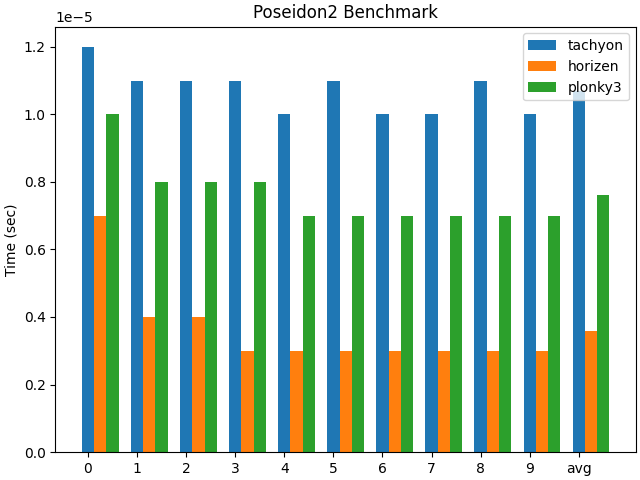
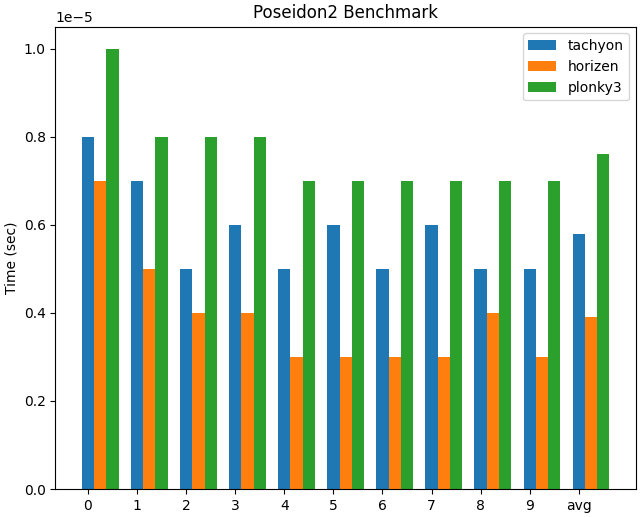
docs(benchmark): update the benchmark result of `Poseidon` and `Poseidon2`

diff --git a/benchmark/poseidon2/README.md b/benchmark/poseidon2/README.md
@@ -7,24 +7,50 @@ CPU Caches:
   L1 Instruction 32 KiB (x16)
   L2 Unified 2048 KiB (x16)
   L3 Unified 36864 KiB (x1)
+
+Run on Apple M3 Pro (12 X 4050 MHz)
+CPU Caches:
+  L1 Data 64 KiB (x12)
+  L1 Instruction 128 KiB (x12)
+  L2 Unified 4096 KiB (x12)
 ```
 
 ```shell
 bazel run -c opt --//:has_openmp --//:has_rtti --//:has_matplotlib //benchmark/poseidon2:poseidon2_benchmark -- -p bn254_fr --vendor horizen --vendor plonky3 --check_results
 ```
 
-| Repetition | Tachyon  | Horizen | Plonky3 |
-| :--------- | -------- | ------- | ------- |
-| 0          | 1.2e-05  | 7e-06   | 1e-05   |
-| 1          | 1.1e-05  | 4e-06   | 8e-06   |
-| 2          | 1.1e-05  | 4e-06   | 8e-06   |
-| 3          | 1.1e-05  | 3e-06   | 8e-06   |
-| 4          | 1e-05    | 3e-06   | 7e-06   |
-| 5          | 1.1e-05  | 3e-06   | 7e-06   |
-| 6          | 1e-05    | 3e-06   | 7e-06   |
-| 7          | 1e-05    | 3e-06   | 7e-06   |
-| 8          | 1.1e-05  | 3e-06   | 7e-06   |
-| 9          | 1e-05    | 3e-06   | 7e-06   |
-| avg        | 1.07e-05 | 3.6e-06 | 7.6e-06 |
+#### On Intel i9-13900K
+
+| Repetition | Tachyon | Horizen     | Plonky3 |
+| :--------- | ------- | ----------- | ------- |
+| 0          | 8e-06   | **7e-06**   | 1e-05   |
+| 1          | 7e-06   | **5e-06**   | 8e-06   |
+| 2          | 5e-06   | **4e-06**   | 8e-06   |
+| 3          | 6e-06   | **4e-06**   | 8e-06   |
+| 4          | 5e-06   | **3e-06**   | 7e-06   |
+| 5          | 6e-06   | **3e-06**   | 7e-06   |
+| 6          | 5e-06   | **3e-06**   | 7e-06   |
+| 7          | 6e-06   | **3e-06**   | 7e-06   |
+| 8          | 5e-06   | **4e-06**   | 7e-06   |
+| 9          | 5e-06   | **3e-06**   | 7e-06   |
+| avg        | 5.8e-06 | **3.9e-06** | 7.6e-06 |
 
 ![image](/benchmark/poseidon2/poseidon2_benchmark_ubuntu_i9.png)
+
+#### On Mac M3 Pro
+
+| Repetition | Tachyon | Horizen     | Plonky3  |
+| :--------- | ------- | ----------- | -------- |
+| 0          | 1.3e-05 | **1.2e-05** | 1.5e-05  |
+| 1          | 1e-05   | **8e-06**   | 1.1e-05  |
+| 2          | 9e-06   | **7e-06**   | 1e-05    |
+| 3          | 9e-06   | **7e-06**   | 1e-05    |
+| 4          | 9e-06   | **7e-06**   | 1e-05    |
+| 5          | 9e-06   | **7e-06**   | 1e-05    |
+| 6          | 9e-06   | **7e-06**   | 1e-05    |
+| 7          | 9e-06   | **7e-06**   | 1e-05    |
+| 8          | 9e-06   | **7e-06**   | 1e-05    |
+| 9          | 9e-06   | **7e-06**   | 1e-05    |
+| avg        | 9.5e-06 | **7.6e-06** | 1.06e-05 |
+
+![image](/benchmark/poseidon2/poseidon2_benchmark_mac_m3.png)

diff --git a/benchmark/poseidon/README.md b/benchmark/poseidon/README.md
@@ -23,34 +23,34 @@ bazel run -c opt --//:has_openmp --//:has_rtti --//:has_matplotlib //benchmark/p
 
 | Repetition | Tachyon      | Arkworks  |
 | :--------: | ------------ | --------- |
-|     0      | **9.9e-05**  | 0.000122  |
-|     1      | **9.9e-05**  | 0.000119  |
-|     2      | **9.9e-05**  | 0.000117  |
-|     3      | **9.9e-05**  | 0.000119  |
-|     4      | **9.9e-05**  | 0.000118  |
-|     5      | **0.000101** | 0.000116  |
-|     6      | **9.8e-05**  | 0.000118  |
-|     7      | **9.9e-05**  | 0.000118  |
-|     8      | **9.9e-05**  | 0.000118  |
-|     9      | **9.9e-05**  | 0.000118  |
-|    avg     | **9.91e-05** | 0.0001183 |
+|     0      | **9.4e-05**  | 0.000123  |
+|     1      | **9.1e-05**  | 0.000119  |
+|     2      | **9.3e-05**  | 0.000117  |
+|     3      | **9.2e-05**  | 0.000117  |
+|     4      | **9.2e-05**  | 0.000117  |
+|     5      | **9.2e-05**  | 0.00012   |
+|     6      | **9.2e-05**  | 0.000118  |
+|     7      | **9.2e-05**  | 0.000118  |
+|     8      | **9.3e-05**  | 0.000117  |
+|     9      | **9.2e-05**  | 0.000116  |
+|    avg     | **9.23e-05** | 0.0001182 |
 
 ![image](/benchmark/poseidon/poseidon_benchmark_ubuntu_i9.png)
 
 ## On Mac M3 Pro
 
-| Repetition | Tachyon       | Arkworks  |
-| :--------: | ------------- | --------- |
-|     0      | **0.000112**  | 0.000131  |
-|     1      | **0.000118**  | 0.000125  |
-|     2      | **0.000111**  | 0.000121  |
-|     3      | **0.000103**  | 0.000121  |
-|     4      | **0.000104**  | 0.00012   |
-|     5      | **0.000103**  | 0.000117  |
-|     6      | **0.000103**  | 0.000118  |
-|     7      | **0.000104**  | 0.000117  |
-|     8      | **0.0001**    | 0.000118  |
-|     9      | **0.000113**  | 0.000118  |
-|    avg     | **0.0001071** | 0.0001206 |
+| Repetition | Tachyon      | Arkworks  |
+| :--------: | ------------ | --------- |
+|     0      | **0.000106** | 0.000128  |
+|     1      | **0.0001**   | 0.000121  |
+|     2      | **9.7e-05**  | 0.00012   |
+|     3      | **9.5e-05**  | 0.000118  |
+|     4      | **9.8e-05**  | 0.00012   |
+|     5      | **9.8e-05**  | 0.000117  |
+|     6      | **9.9e-05**  | 0.000118  |
+|     7      | **9.5e-05**  | 0.000116  |
+|     8      | **9.7e-05**  | 0.000118  |
+|     9      | **9.6e-05**  | 0.000116  |
+|    avg     | **9.81e-05** | 0.0001192 |
 
 ![image](/benchmark/poseidon/poseidon_benchmark_mac_m3.png)
